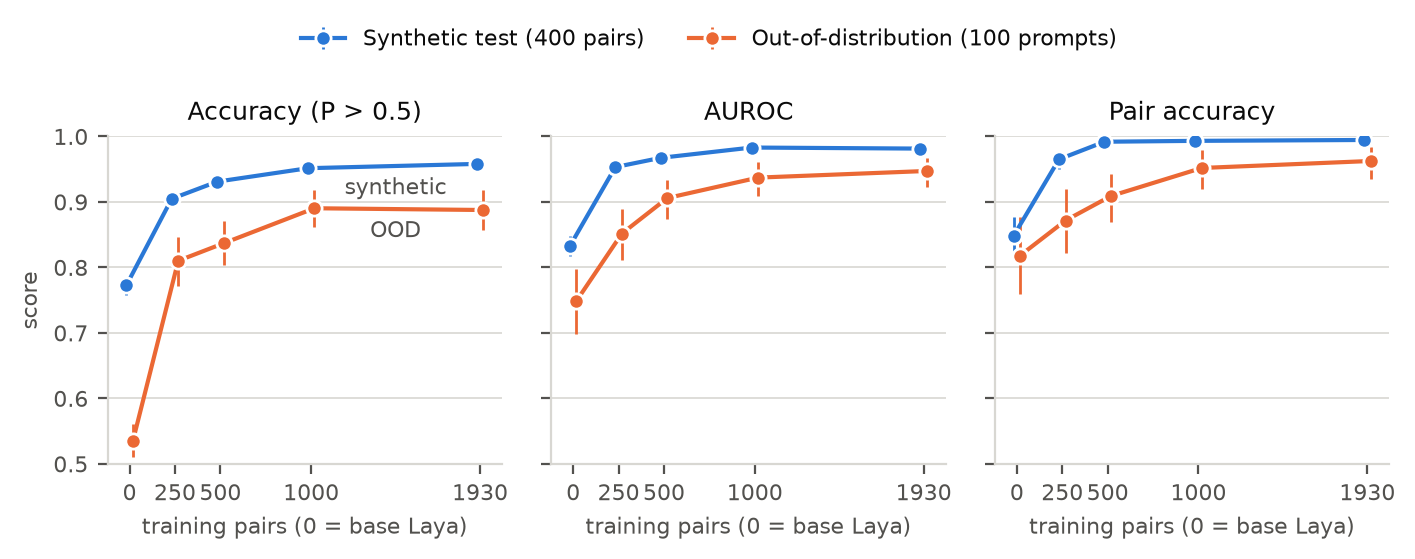
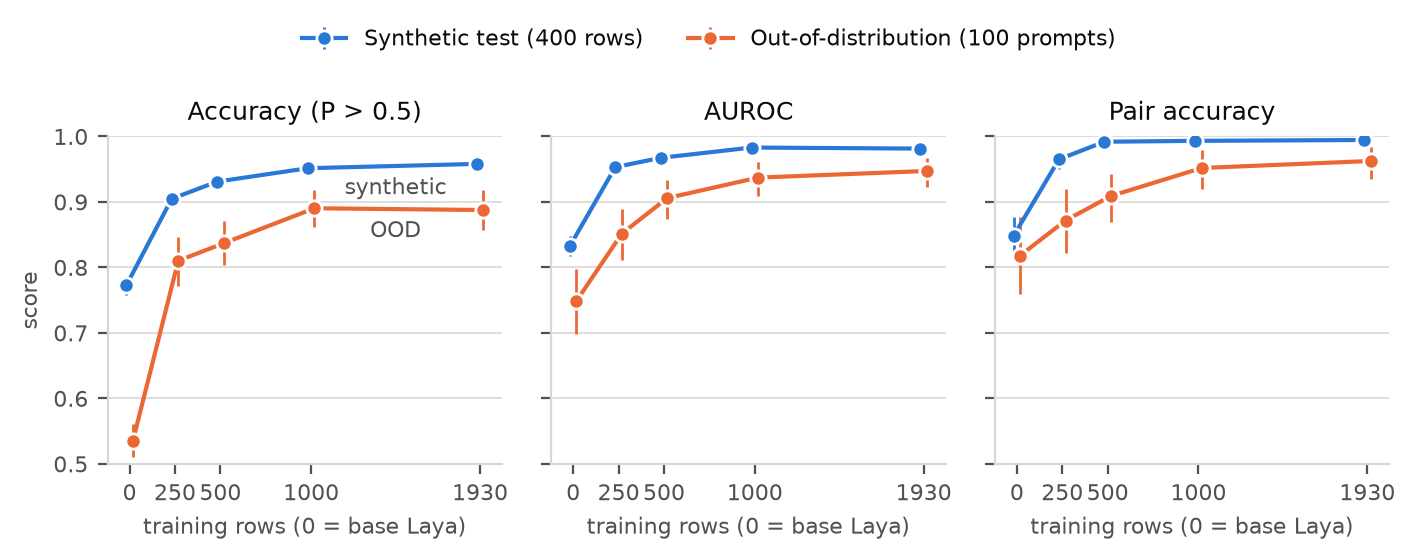
laya learning curve update

diff --git a/privacy/plot_laya_learning_curve.py b/privacy/plot_laya_learning_curve.py
@@ -1,10 +1,11 @@
 """
 Learning curve of the Laya fine-tuning (ROADMAP "Laya fine-tuning"): accuracy, AUROC and pair
-accuracy against the number of training pairs, on the synthetic test split and the
+accuracy against the number of training rows, on the synthetic test split and the
 out-of-distribution set (prompt_rewrites_100), with laya_eval.py's 95% bootstrap CIs.
 
-Each point is a separate laya_finetune.py run from the base model on the first n training pairs
-(nested subsets, jobs 404-407); n = 0 is the base model. The numbers are read from
+A row is one line of data/laya_ft/train.csv: a leaking message and its safe edit. Each point is
+a separate laya_finetune.py run from the base model on the first n training rows (nested subsets,
+jobs 404-407); n = 0 is the base model. The numbers are read from
 laya_eval.py's JSON (job 408), nothing is scored again.
 
     python plot_laya_learning_curve.py   -> results/laya_eval/laya_learning_curve.{pdf,png}
@@ -20,13 +21,13 @@ import matplotlib.pyplot as plt
 HERE = Path(__file__).resolve().parent
 RESULTS = HERE / "results" / "laya_eval" / "laya_eval_408.json"
 
-# model name in the JSON -> training pairs it was fine-tuned on
+# model name in the JSON -> training rows it was fine-tuned on
 MODELS = {"base": 0, "laya-privacy-n250": 250, "laya-privacy-n500": 500,
           "laya-privacy-n1000": 1000, "laya-privacy-n1930": 1930}
 METRICS = [("acc", "Accuracy (P > 0.5)"), ("auroc", "AUROC"), ("pair_acc", "Pair accuracy")]
-SETS = [("synthetic", "Synthetic test (400 pairs)"), ("ood", "Out-of-distribution (100 prompts)")]
+SETS = [("synthetic", "Synthetic test (400 rows)"), ("ood", "Out-of-distribution (100 prompts)")]
 DIRECT_LABELS = {"synthetic": "synthetic", "ood": "OOD"}
-DODGE = 18                 # x-offset in pairs, so the two sets' error bars do not overlap
+DODGE = 18                 # x-offset in rows, so the two sets' error bars do not overlap
 Y_RANGE = (0.5, 1.0)       # 0.5 = chance for AUROC and pair accuracy
 FIGSIZE = (7.2, 2.7)       # inches, about the text width of a report page
 
@@ -80,7 +81,7 @@ def plot_curves(curves, out_stem):
         ax.set_xticks(list(MODELS.values()))
         ax.set_xlim(-120, 2050)
         ax.set_ylim(*Y_RANGE)
-        ax.set_xlabel("training pairs (0 = base Laya)", color=INK_MUTED, fontsize=8)
+        ax.set_xlabel("training rows (0 = base Laya)", color=INK_MUTED, fontsize=8)
     axes[0].set_ylabel("score", color=INK_MUTED, fontsize=8)
 
     # direct labels in the first panel, in ink, just below each line midway between its
